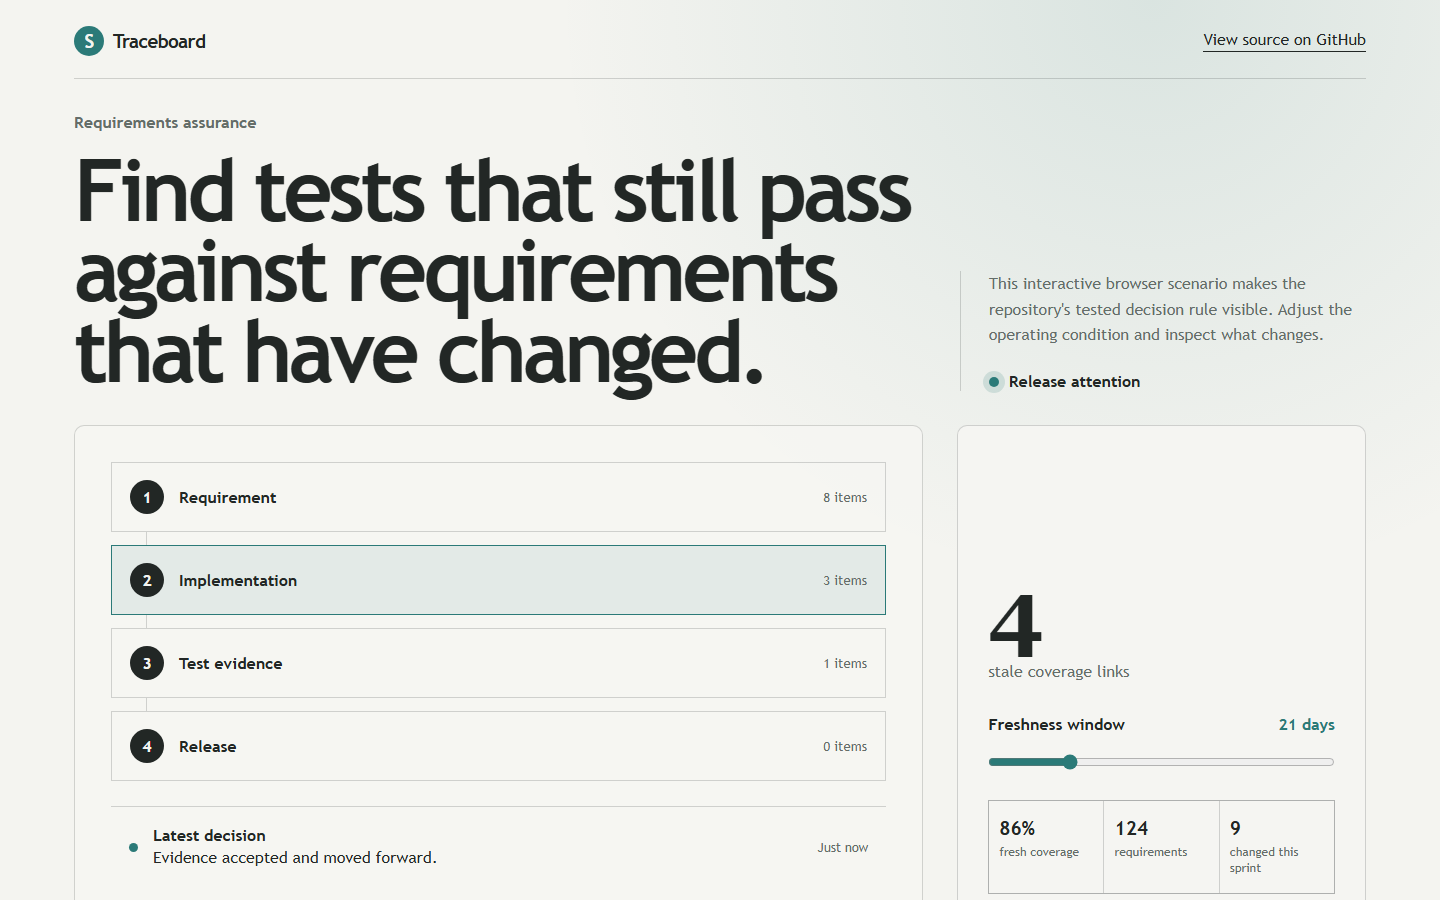
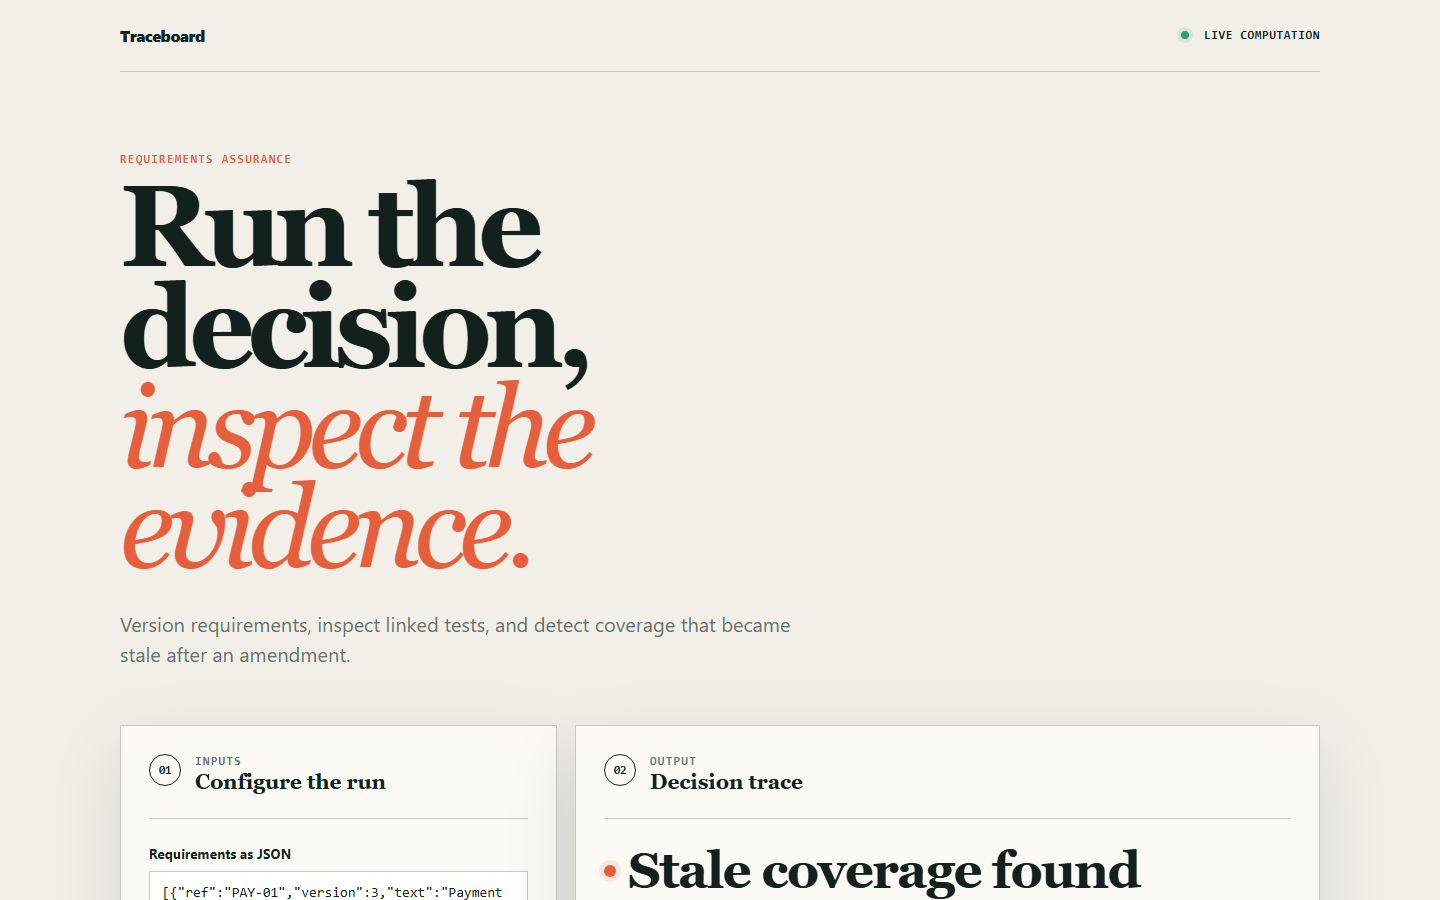
docs: show working deployed application

diff --git a/README.md b/README.md
@@ -6,9 +6,9 @@
 
 [![CI and deployment](https://github.com/SlateGitOrg/traceboard/actions/workflows/ci.yml/badge.svg?branch=main)](https://github.com/SlateGitOrg/traceboard/actions/workflows/ci.yml)
 
-[Open the interactive Traceboard demo](https://slategitorg.github.io/traceboard/)
+[Open the working Traceboard application](https://slategitorg.github.io/traceboard/)
 
-The deployed interface uses a deterministic offline scenario to make the repository's tested decision rule visible without external services or private data.
+This deployed application runs the project's decision workflow in the browser. Change the inputs, run the analysis, and inspect the computed metrics and decision trace.
 
 ### Desktop
 
